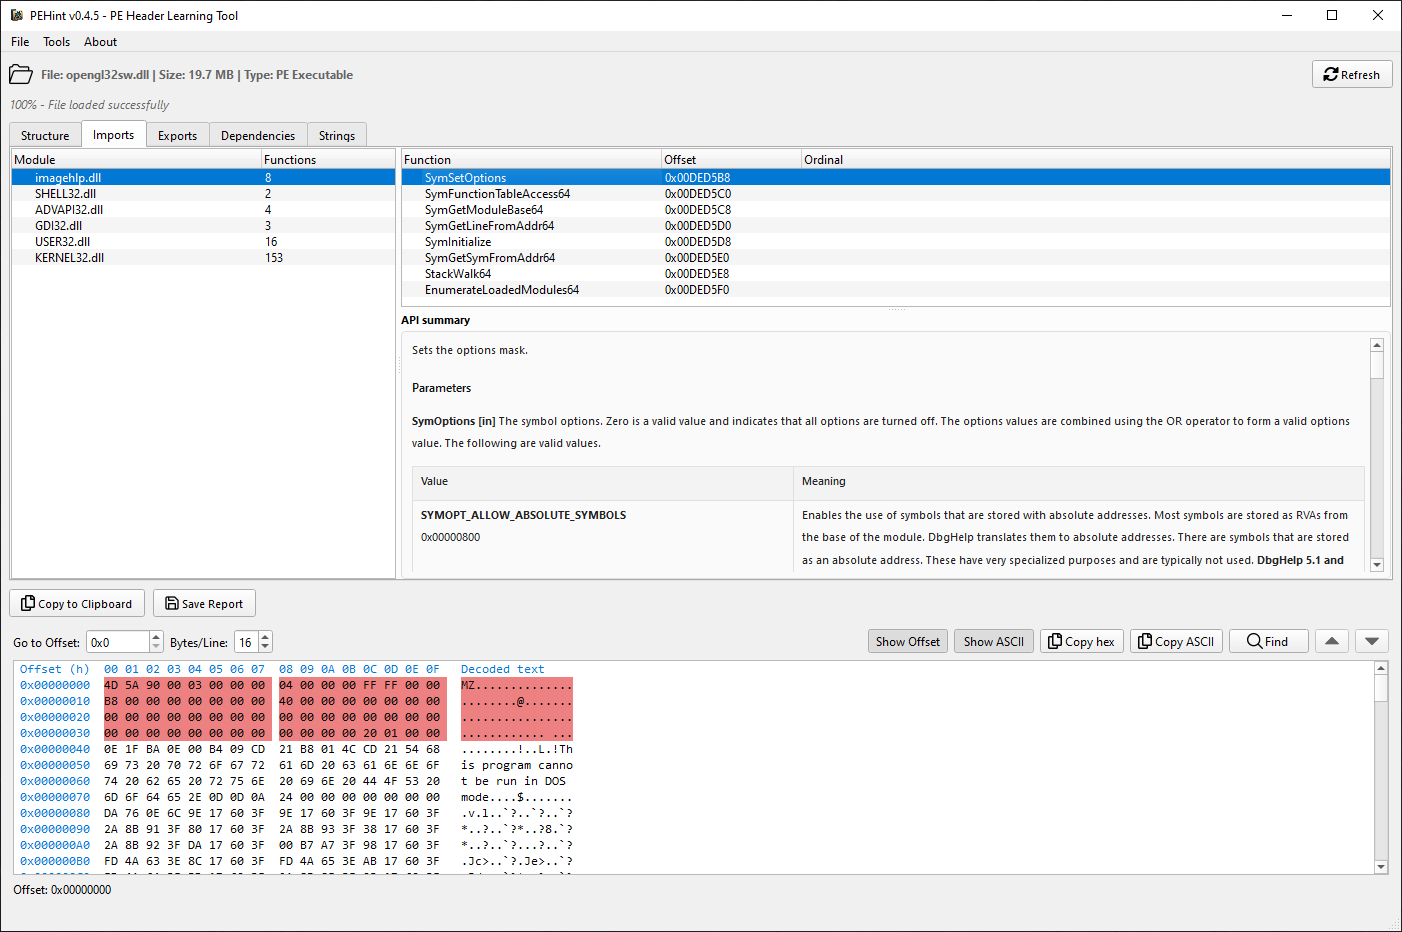
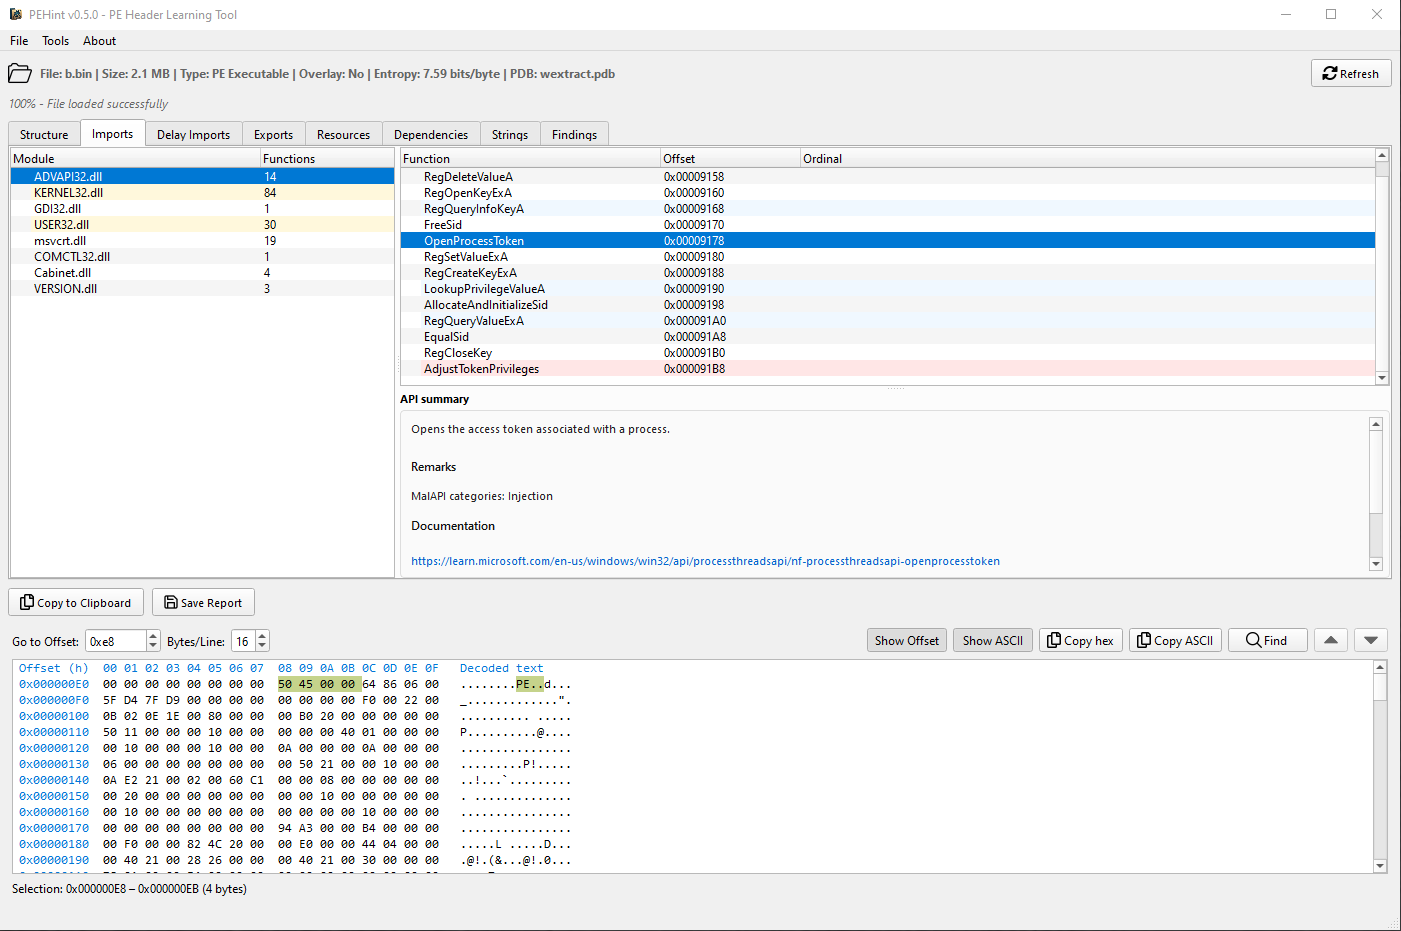
Update readme

diff --git a/README.md b/README.md
@@ -12,16 +12,39 @@ PEHint is a Windows PE file analyzer for malware triage, reverse engineering, an
 
 > **Full documentation is on the [Wiki](https://github.com/moval0x1/PEHint/wiki).**
 
+## What's New
+
+### v0.5.0
+- **PE Compare** — diff two PE files side-by-side: headers, sections (with entropy), version info, PDB, TLS, resources, Authenticode, imports, exports, and findings. Swap A↔B and copy the report to clipboard.
+- **Findings category filter pills** — filter the Findings tab by Hardening / Content / Metadata / Imports without losing the full list.
+- **Hardening passes** — ASLR, DEP, CFG pass/fail items now always appear in the Findings tab (previously hidden when passing).
+- **New findings** — `invalid_signature` (certificate directory present but Authenticode verification failed) and `clr_assembly` (.NET binaries).
+- **TLS callbacks full walk** — all callback addresses listed in the TLS directory, not just the count.
+- **Base relocations full walk** — all relocation blocks and their entries shown in the structure tree.
+- **findings.json v6** — 41 rules, each with an explicit `category` field; fully editable without recompiling.
+
+### v0.4.6
+- Fixed a stack overflow on very large PE files (deep section recursion).
+- Resource preview improvements: better icon rendering and hex fallback for unknown types.
+- Clearer Signed / cert-data labels in the Authenticode panel.
+- Safer crash handler — avoids re-entrancy when the signal fires during Qt shutdown.
+
 ## Screenshots
 
 ### Main Interface
-![PEHint Main Interface](/resources/imgs/screenshots/start_opened_file.png)
+![PEHint Main Interface](/resources/imgs/screenshots/file-opened.png "PEHint Main Interface")
 
-### Imports View
-![Imports Tab](/resources/imgs/screenshots/imports.png)
+### Imports
+![Imports](/resources/imgs/screenshots/imports.png "Imports")
 
-### Field Explanations
-![DOS Header Field Explanation](/resources/imgs/screenshots/dos_header_explanation.png)
+### Resources
+![Resources](/resources/imgs/screenshots/resources.png "Resources")
+
+### Strings
+![Strings](/resources/imgs/screenshots/strings.png "Strings")
+
+### Findings
+![Findings](/resources/imgs/screenshots/findings.png "Findings")
 
 ## Greetz
 
